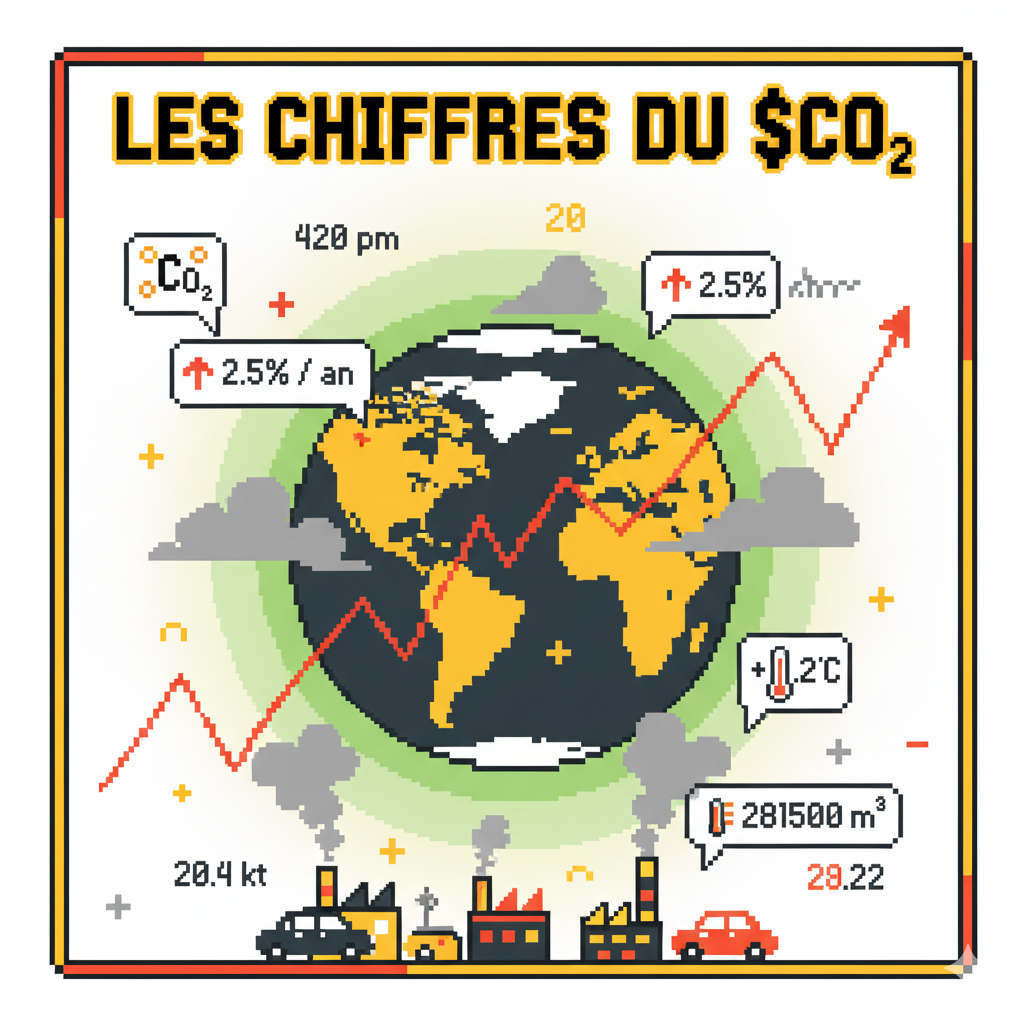
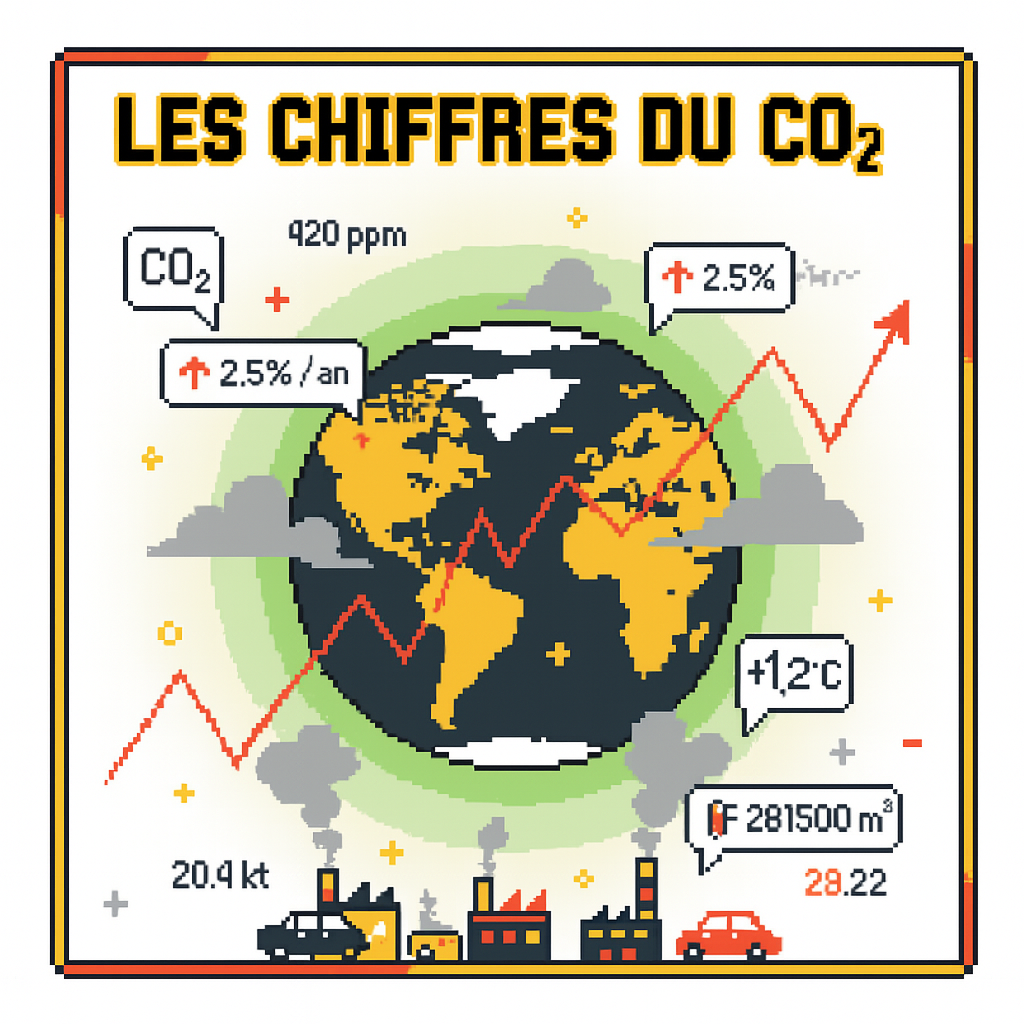
changement page 4

diff --git a/page4.html b/page4.html
@@ -191,7 +191,7 @@
 <div class="container">
   <div class="row">
     <div class="image-col">
-      <img src="ecomistralimg.png" alt="image 1">
+      <img src="comparaison.png" alt="image 1">
     </div>
 
     <div class="text-col">
